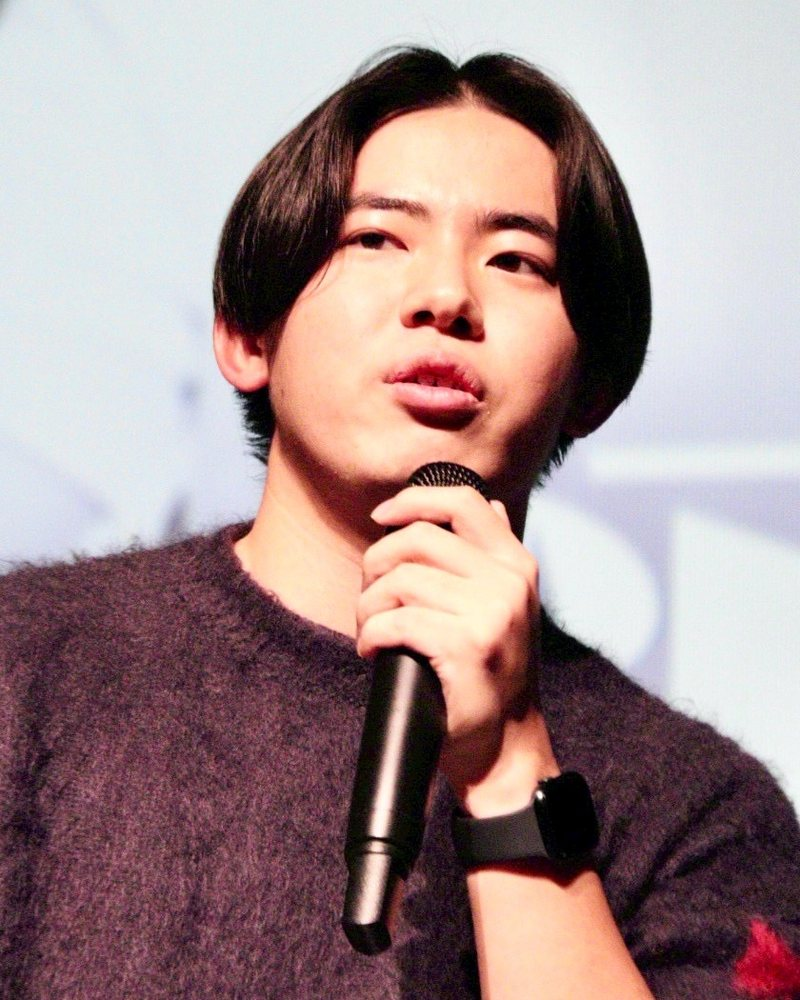
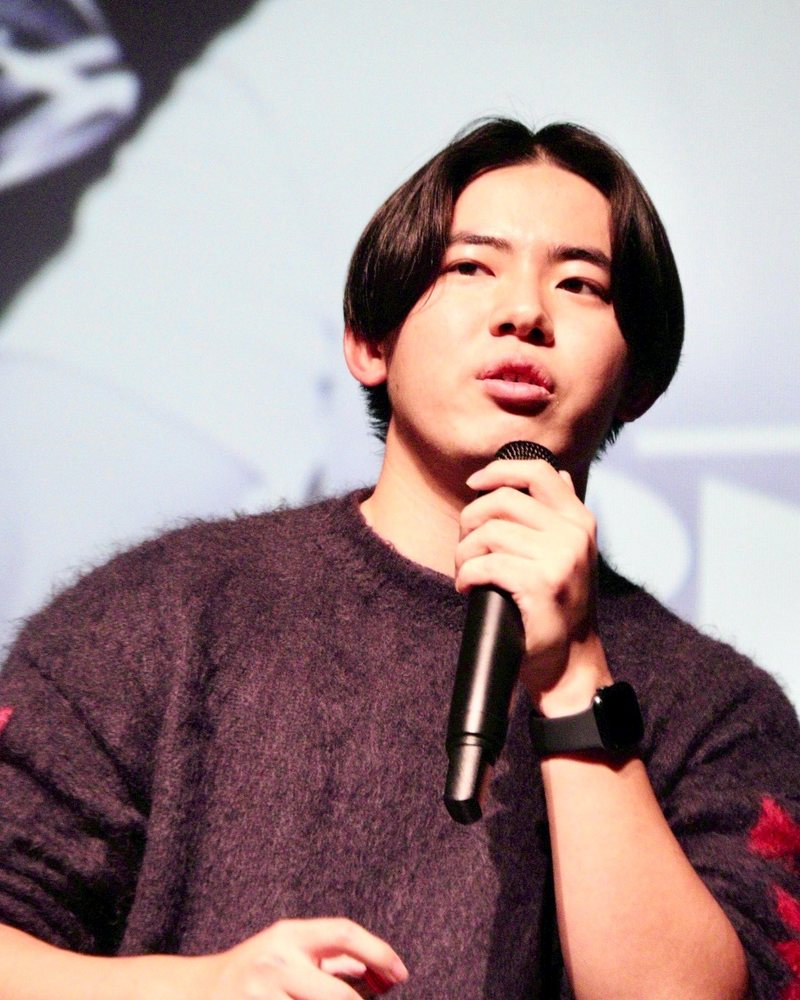
Aboutの写真を引きの構図に変更
Claude-Session: https://claude.ai/code/session_01VApt2zpnuNqQbYMwLxTobv

diff --git a/index.html b/index.html
@@ -150,8 +150,7 @@ header.scrolled{border-color:var(--line)}
 .profile dd{margin:2px 0 0;font-weight:700;font-size:15px;line-height:1.6}
 @media (max-width:820px){
   .about-grid{grid-template-columns:1fr;gap:24px}
-  .about-photo{max-width:360px}
-  .about-photo img{aspect-ratio:1/1;object-position:50% 30%}
+  .about-photo{max-width:320px}
   .profile{grid-template-columns:repeat(3,minmax(0,1fr))}
   .profile dd{font-size:13px}
   .profile div{padding:8px 10px}
